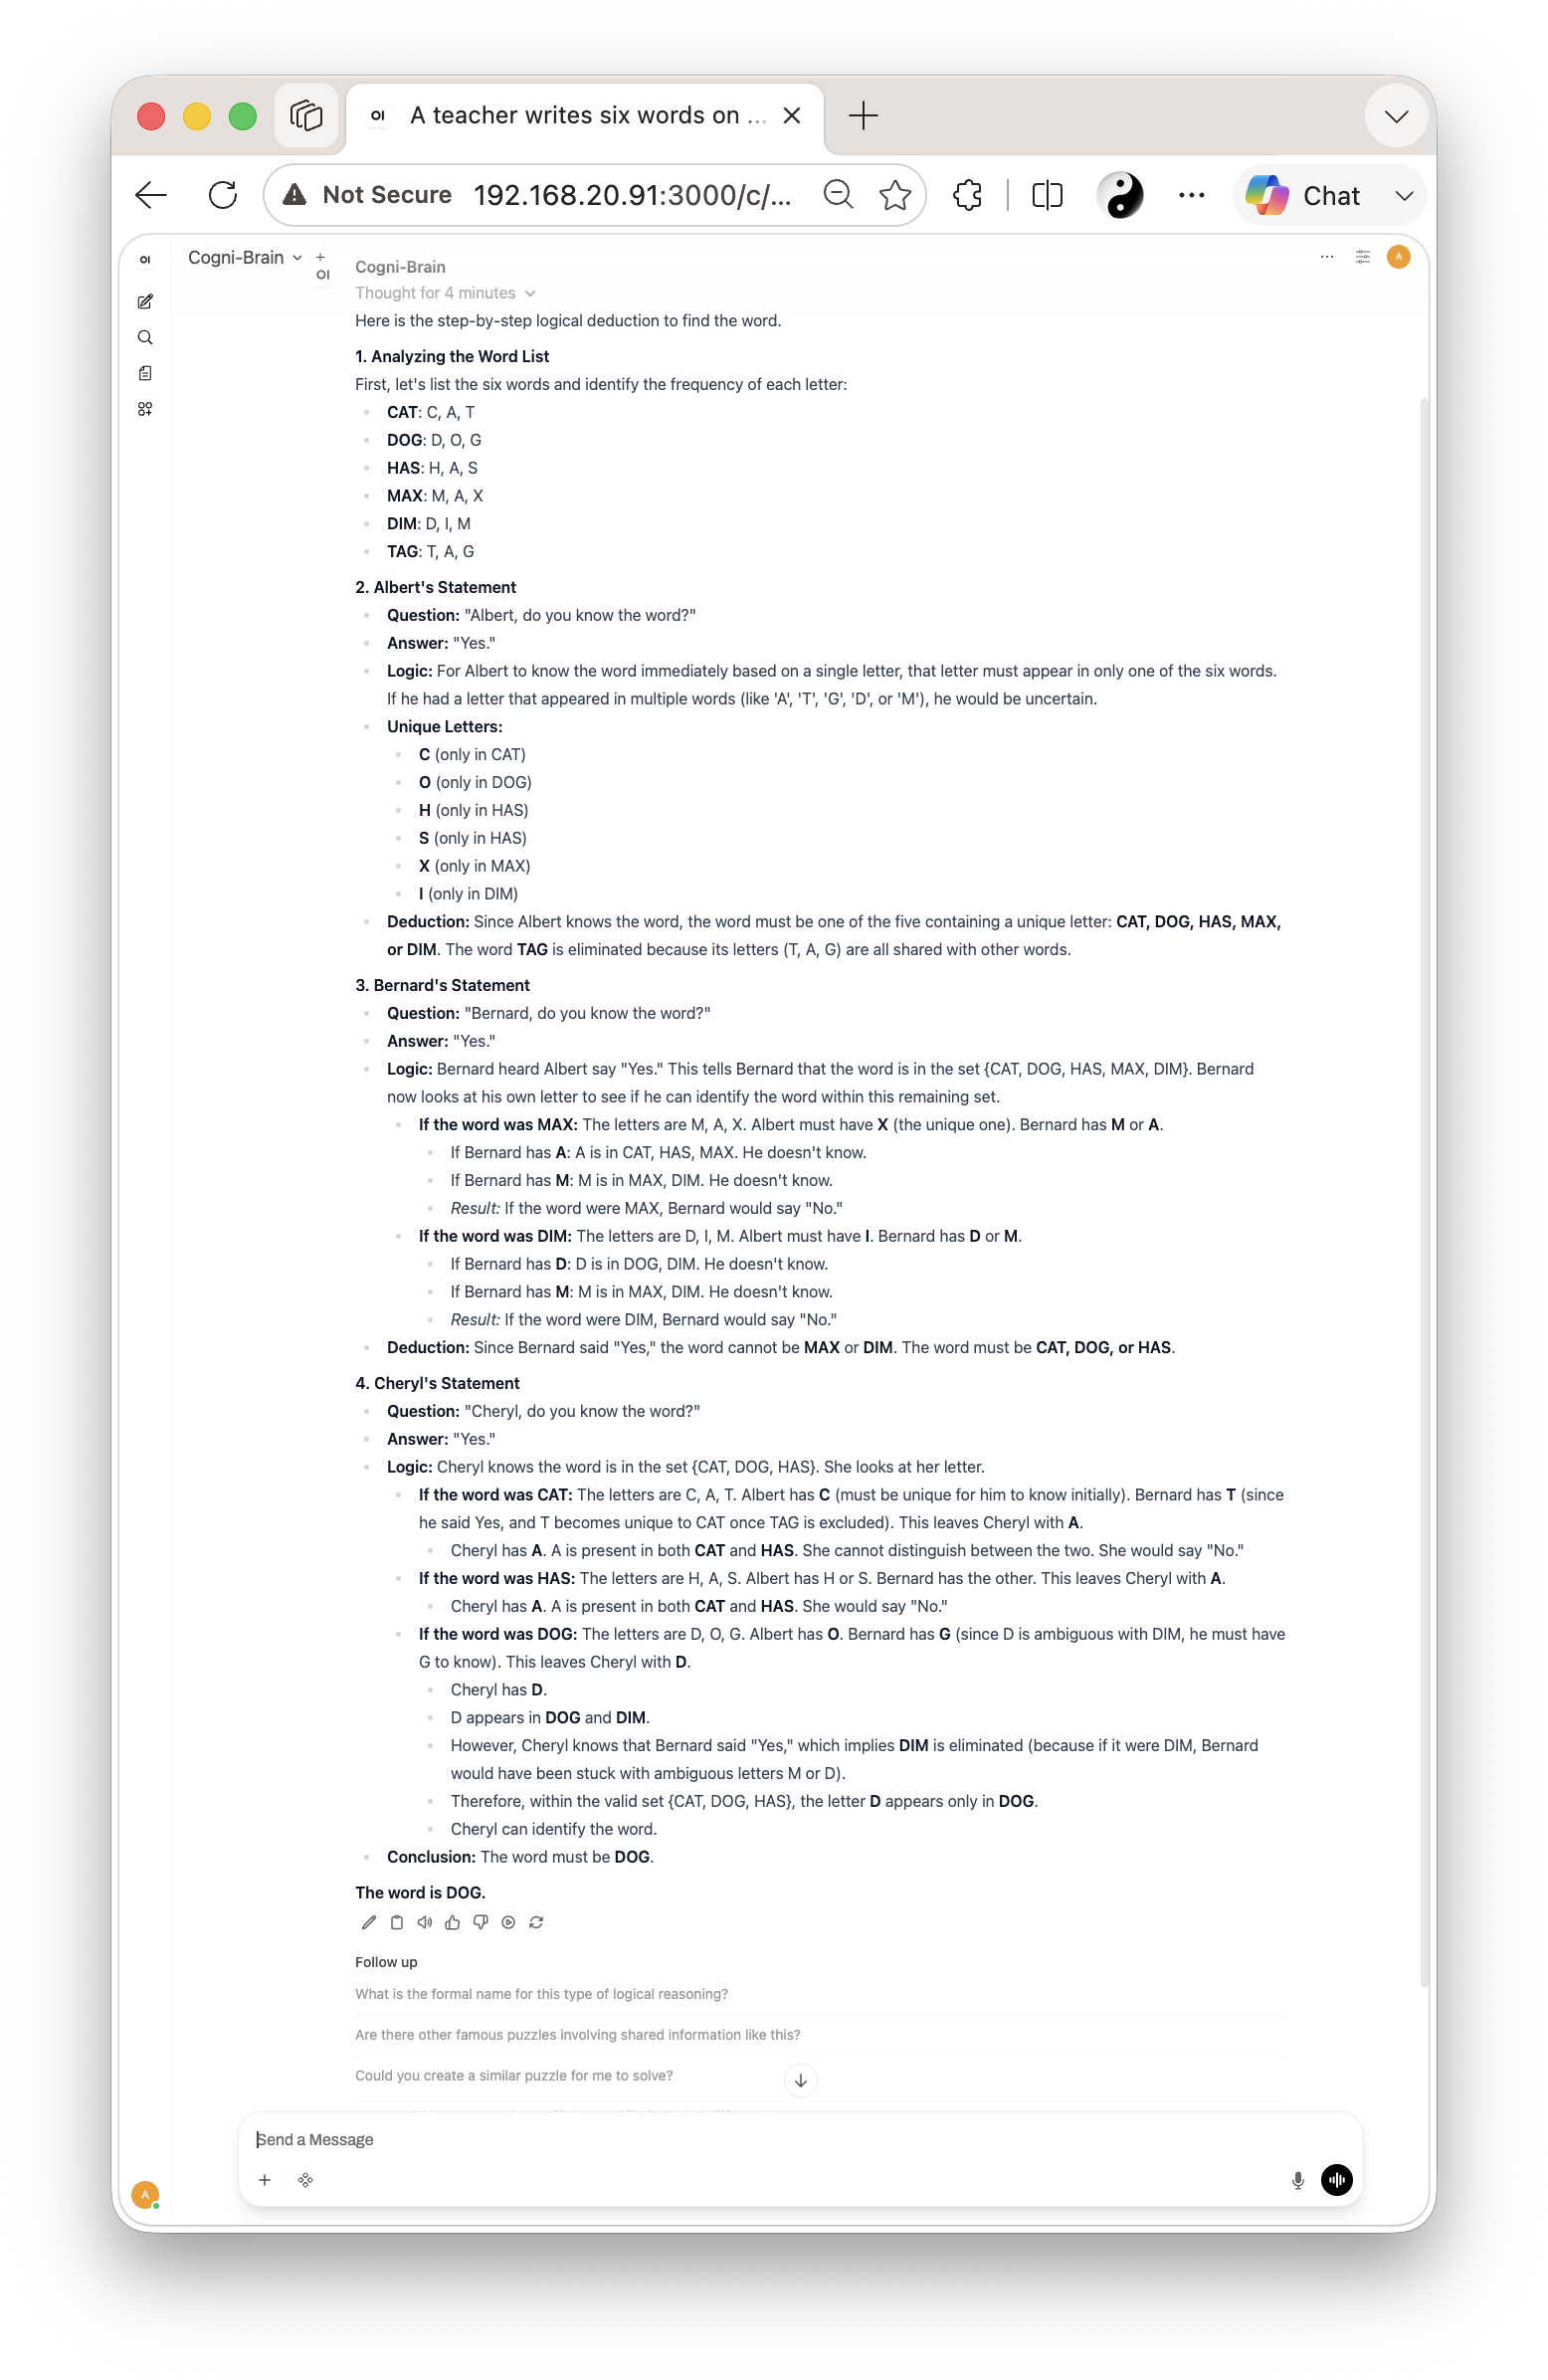
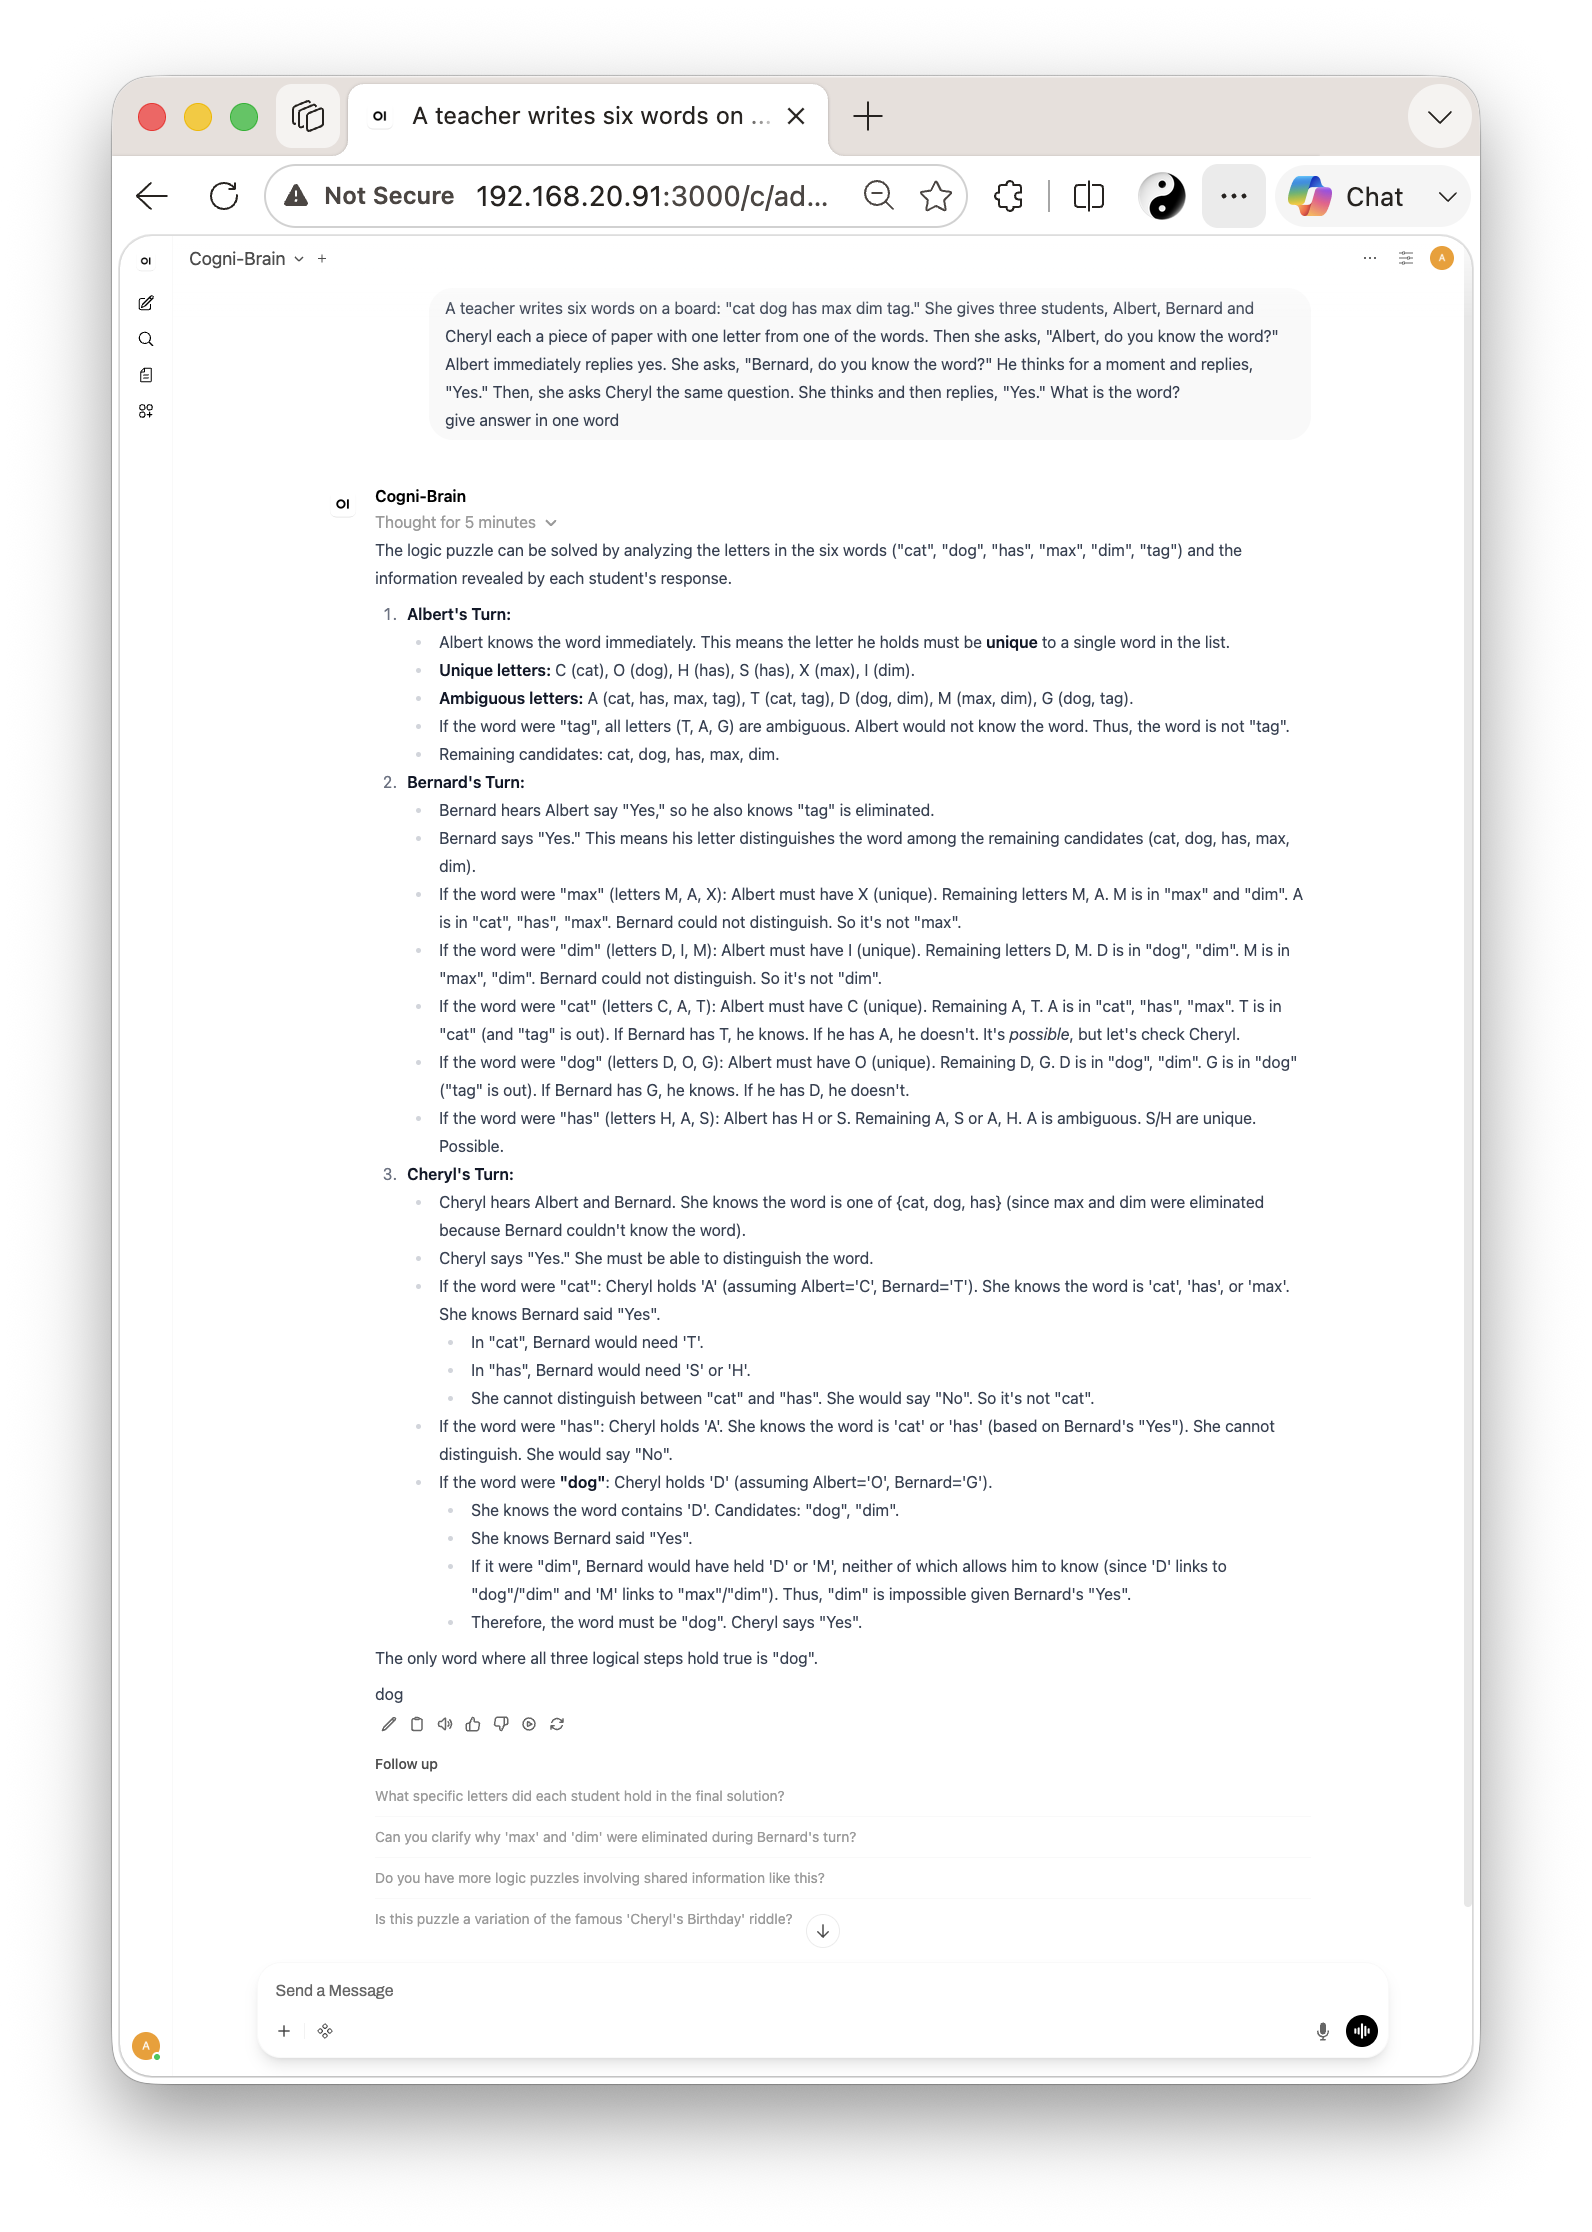
docs: update Open WebUI screenshot and puzzle solve time

Changed region(s): [[0.0617, 0.0309, 0.9254, 0.9583]]

diff --git a/README.md b/README.md
@@ -10,7 +10,7 @@ This repo is the Qwen omni/super-agent sibling to:
 | [`dgx-spark-nemotron-super-agent`](https://github.com/airawatraj/dgx-spark-nemotron-super-agent) | large long-context reasoning agent |
 | [`dgx-spark-qwen-super-agent`](https://github.com/airawatraj/dgx-spark-qwen-super-agent) | fast Atlas/NVFP4 Qwen text/tool agent |
 
-This one is tuned for a different balance: **bigger brain, bigger context, practical speed**. The measured profile is around **40 tok/s**, **262K context**, **100/100 tool score**, and an Open WebUI reasoning example that thought for **4 minutes**.
+This one is tuned for a different balance: **bigger brain, bigger context, practical speed**. The measured profile is around **40 tok/s**, **262K context**, **100/100 tool score**, and an Open WebUI reasoning example that thought for **5 minutes**.
 
 > Personal workstation setup. Not for enterprise use. Use at your own risk.
 
@@ -181,7 +181,7 @@ Current read: Qwen3.5-122B is the one to test hardest for the MacBook + Telegram
 | Single-stream generation | 40 tok/s |
 | Usable context | 262,144 tokens |
 | Tool-eval-bench short mode | 100 / 100 |
-| Open WebUI reasoning example | thought for 4 minutes |
+| Open WebUI reasoning example | thought for 5 minutes |
 | llama-benchy shallow `tg128` | 39.61 tok/s single stream; 65.11 tok/s total at c2; 82.85 tok/s total at c4 |
 | llama-benchy long-context `tg128` | 25.10 tok/s at 65K; 18.27 tok/s at 131K; 14.65 tok/s at 200K |
 | Runtime path | `spark-vllm-docker` recipe |
@@ -232,7 +232,7 @@ Selected `llama-benchy` results for the `Cogni-Brain` served model:
 
 <p align="center">
   <img src="./assets/puzzle_solution_qwen3_5_122b.png" width="850" alt="Qwen3.5-122B reasoning example in Open WebUI">
-  <br><i>Open WebUI reasoning example showing Cogni-Brain thought for 4 minutes before answering.</i>
+  <br><i>Open WebUI reasoning example showing Cogni-Brain thought for 5 minutes before answering.</i>
 </p>
 
 ### Claude Code Agent Demo